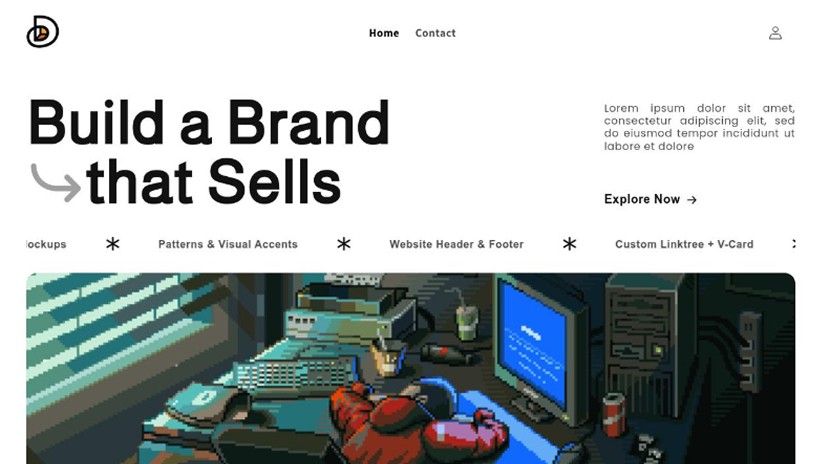
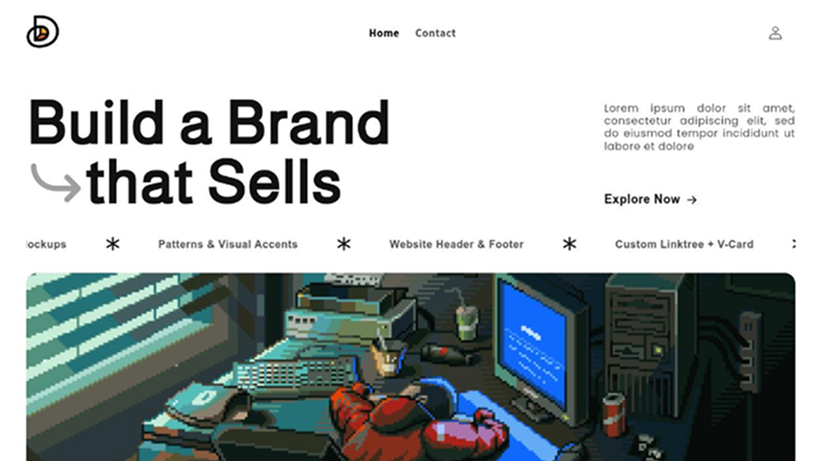
mobile and tab resposiveness added

diff --git a/style.css b/style.css
@@ -132,6 +132,7 @@ nav a:hover::after {
 
 main {
   padding-top: 120px;
+  width: 100%;
 }
 
 /* Marquee Section--------------------------------------------------------------------------------------------------------------- */
@@ -140,7 +141,7 @@ main {
   position: fixed;
   bottom: 0;
   left: 0;
-  width: 100%;
+  width: 100vw;
   overflow: hidden;
   background: #E1E1E1;
   z-index: 11;
@@ -256,20 +257,23 @@ main {
 
 #hero-section {
   position: relative;
+  overflow: hidden;
+  padding: 20px;
+  width: 100%;
+  box-sizing: border-box;
 }
 
 .hero-video-div {
-  min-height: 60vh;
+  height: 70vh;
   position: relative;
   overflow: hidden;
-  margin: 20px;
   border-radius: 30px;
+  width: 100%;
 }
 
 .hero-video {
   width: 100%;
-  height: 50lvh;
-  min-height: 70vh;
+  height: 100%;
   object-fit: cover;
   filter: blur(3px);
   scale: 1.1;
@@ -557,7 +561,7 @@ main {
 }
 
 #helping-heading {
-  width: 100vw;
+  width: 100%;
 }
 
 #helping-heading h2 {
@@ -604,6 +608,7 @@ main {
   gap: 2px;
   z-index: 10;
   position: relative;
+  overflow: hidden;
 }
 
 .reason {
@@ -951,4 +956,198 @@ footer .links {
     bottom: 2vw;
   }
 
+}
+
+/* 768p wide mobile Versionnnnnnnnnnnnnnnnnnnnnnnnnnnnnnnnnnnnnnnnnnnnnnnnnnnnnnnnnnnnnnnnnnnnnnnnnnnnnnnnnnnnnnnnnnnnnnnnnnnnnnnnnnnnnnnnnnnnnnnnn */
+
+@media (max-width: 768px) {
+  #about-me {
+    padding: 70px 20px 50px 20px;
+    margin: 0;
+    display: flex;
+    align-items: center;
+    flex-direction: column;
+  }
+
+  #about-me-wrapper {
+   padding-left: 0;
+   width: 90%;
+  }
+
+  .img-with-points img {
+    width: 26%;
+  } 
+
+  #c_f{
+    display: none;
+  }
+
+  .sticky-section {
+    padding-left: 0;
+    flex-direction: column-reverse;
+  }
+
+  .website-ss {
+    width: 100%;
+    cursor: pointer;
+  }
+
+  .website-list {
+    margin-left: 0;
+    padding: 0 20px;
+    gap: 15px;
+  }
+
+  #Works span{
+    font-size: 2rem;
+  
+  }
+}
+
+/* 450p wide mobile Versionnnnnnnnnnnnnnnnnnnnnnnnnnnnnnnnnnnnnnnnnnnnnnnnnnnnnnnnnnnnnnnnnnnnnnnnnnnnnnnnnnnnnnnnnnnnnnnnnnnnnnnnnnnnnnnnnnnnnnnnn */
+
+@media (max-width: 550px) {
+  nav{
+    width: 100vw;
+  }
+
+  nav a{
+    font-weight: 400;
+    font-size: 2rem;
+  }
+
+  .logo{
+    width: 70%;
+  }
+
+  main {
+    padding-top: 60px;
+  }
+
+  .hero-video-div {
+    height: 60vh;
+    position: relative;
+    overflow: hidden;
+    border-radius: 30px;
+    width: 100%;
+  }
+
+  .hero-headings div {
+    display: flex;
+    justify-content: center;
+    flex-wrap: wrap;
+  }
+
+  .hero-headings h1 {
+    font-size: 18vw;
+    display: inline;
+    color: #ffffff;
+    line-height: 74%;
+    transition: all 0.4s ease;
+  }
+
+  .hero-headings h4{
+    font-size: 5vw;
+    margin-top: 15px;
+  }
+
+  #top-div {
+    display: flex;
+    flex-direction: row;
+    gap: 0;
+    overflow: visible;
+    width: fit-content;
+    height: 70px;
+  }
+
+  #about-me-wrapper {
+    padding-left: 0;
+    width: 100%;
+  }
+
+  #about-me h1 {
+    font-size: 4.5rem;
+  }
+
+  .website-designer-box {
+    display: flex;
+    position: relative;
+    right: 90px;
+    bottom: 65px;
+  }
+
+  .website-designer-box .scnd-div{
+    padding: 5px 20px !important;
+  }
+
+  .img-with-points {
+    display: flex;
+    flex-direction: row;
+    width: 100%;
+    justify-content: flex-start;
+    align-items: flex-start;
+    flex-wrap: wrap;
+  }
+
+  .img-with-points img {
+    width: 60%;
+    margin-left: 15px;
+  }
+
+  .about-me-text .reveal{
+    margin-top: 15px;
+  }
+
+  .about-me-text .line{
+    text-align: left !important;
+  }
+
+  .about-me-text p {
+    margin: 10px 0;
+  }
+
+  #arrow-div {
+    width: 13vw;
+    height: 13vw;
+    bottom: 56vw;
+  }
+
+  .arrow-wheel #wheel {
+    width: 13vw;
+    height: 13vw;
+  }
+
+  #why-consider-me--services {
+    margin: 0;
+    padding: 0;
+  }
+
+  .reason p {
+    width: 100%;
+    font-size: 1.5rem;
+    margin-right: 10px;
+  }
+
+  .reason p.show {
+    width: 100%;
+    font-size: 1.5rem;
+    margin-right: 10px;
+  }
+
+  #contact-me h1 {
+    font-size: clamp(3rem, 5vw, 6rem);
+  }
+
+  .wrap .place {
+    display: none;
+  }
+
+  #contact-form {
+    width: 100%;
+  }
+
+  #contact-me button {
+    font-size: 1.3rem;
+    padding: 15px 40px;
+  }
 }

diff --git a/index.html b/index.html
@@ -106,7 +106,7 @@
                         <div>
                             <h5 style="position: relative; z-index: 7;">website</h5>
                         </div>
-                        <div style="left: 100px; bottom: 25px; position: relative; padding: 5px 45px;">
+                        <div class="scnd-div" style="left: 100px; bottom: 25px; position: relative; padding: 5px 45px;" >
                             <h5 style="display: block; position: relative; z-index: 7;">designer</h5>
                         </div>
                     </div>
@@ -139,7 +139,7 @@
 
         <section class="sticky-section" id="Works">
             <div>
-                <span>C.F</span>
+                <span id="c_f">C.F</span>
             </div>
 
             <div class="website-list">
@@ -159,8 +159,8 @@
 
                 <div class="website">
                     <div class="image-wrapper">
-                        <img class="website-ss" src="/contents/images/disingly-ss.png"
-                            alt="Disingly Website's Screenshoot">
+                        <img class="website-ss" src="/contents/images/tcv-ss.png"
+                            alt="The Vibe Cartels Website's Screenshoot">
 
                         <p style="left: 17px; top: -4px; transform: rotate(90deg); transform-origin: left;">About</p>
                         <p style="left: 7px; bottom: 7px;">About</p>
@@ -216,8 +216,8 @@
                 </div>
             </div>
 
-            <div style="flex: 1; position: relative; text-align: center;">
-                <span style="text-transform: uppercase;">My Recent Works</span>
+            <div style="flex: 1; position: relative; text-align: center;  margin-bottom: 10px;">
+                <span style="text-transform: uppercase; ">My Recent Works</span>
             </div>
 
         </section>
